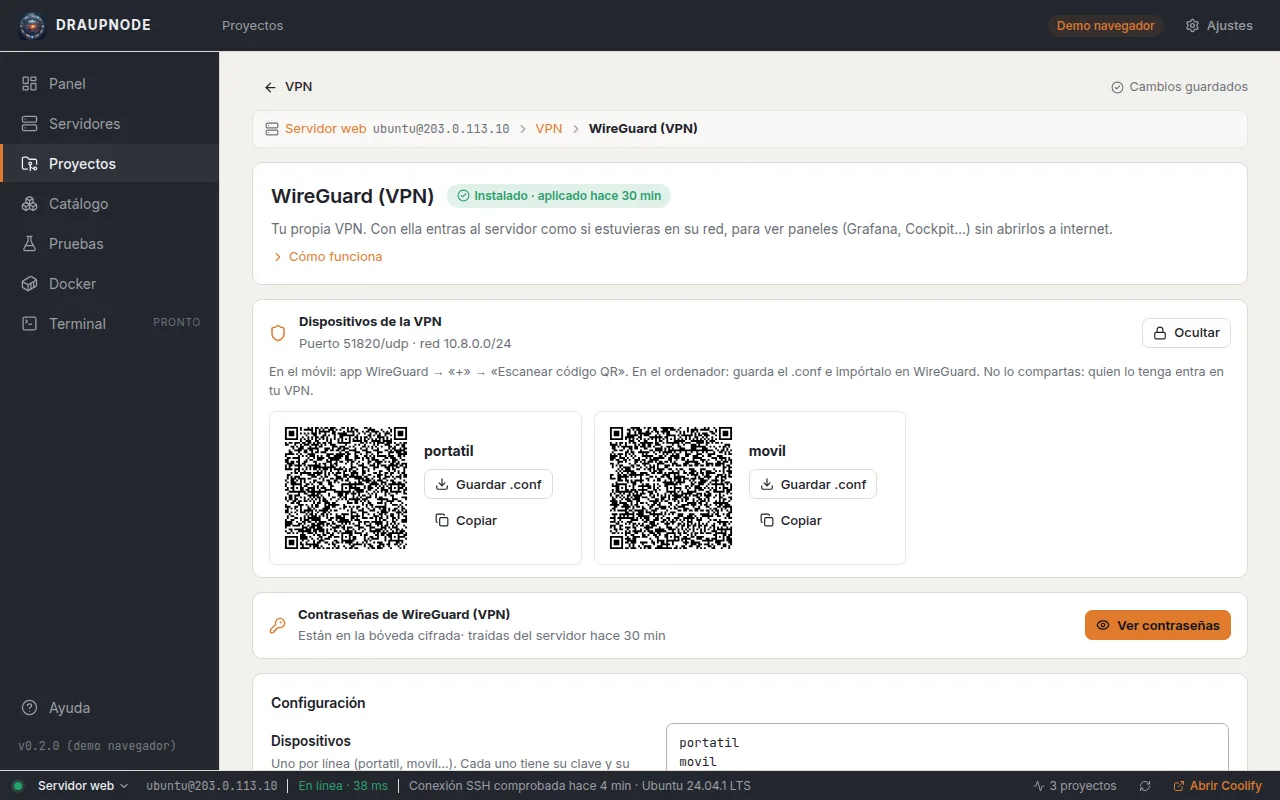
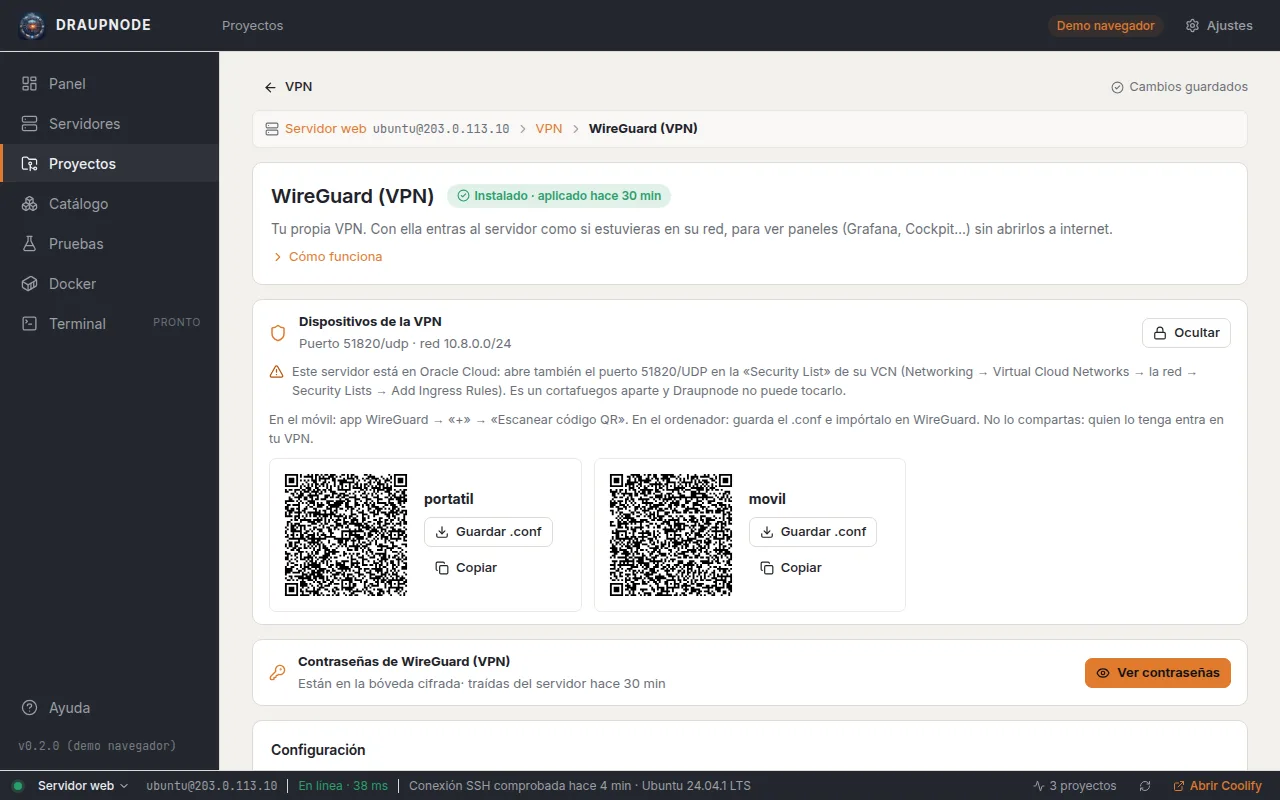
0.19.2: aviso de puertos a abrir en el cortafuegos del proveedor de nube

Changed region(s): [[0.2188, 0.4375, 0.9688, 0.9688], [0.5312, 0.75, 0.9688, 0.9688]]

diff --git a/frontend/src/components/WireguardPanel.svelte b/frontend/src/components/WireguardPanel.svelte
@@ -3,15 +3,17 @@
   // app del móvil) y para guardarla como .conf. Está en la bóveda: hay que
   // escribir su contraseña cada vez y se oculta sola.
   import { onDestroy } from 'svelte'
-  import { Shield, Download, Copy, Lock, QrCode } from '@lucide/svelte'
+  import { Shield, Download, Copy, Lock, QrCode, TriangleAlert } from '@lucide/svelte'
   import qrcode from 'qrcode-generator'
   import { api, errorText, type Project, type ProjectSecret } from '../lib/api'
-  import { ask, toast } from '../lib/state.svelte'
+  import { ask, toast, ui } from '../lib/state.svelte'
+  import { cloudHint } from '../lib/modules'
 
   let { project }: { project: Project } = $props()
   const HIDE_AFTER_MS = 3 * 60 * 1000
 
   const vals = $derived(project.installedValues?.wireguard ?? {})
+  const cloud = $derived(ui.servers.find((s) => s.id === project.serverId)?.lastCheck?.facts?.cloud)
   let list = $state<ProjectSecret[] | null>(null)
   let busy = $state(false)
   let timer: ReturnType<typeof setTimeout> | undefined
@@ -77,6 +79,7 @@
       <button class="btn sm" onclick={open} disabled={busy}><QrCode size={14} /> Ver configuraciones</button>
     {/if}
   </div>
+  <p class="hint"><TriangleAlert size={15} /> {cloudHint(cloud, `el puerto ${vals.wireguard_port ?? 51820}/UDP`)}</p>
   {#if list}
     <p class="muted small">En el móvil: app WireGuard → «+» → «Escanear código QR». En el ordenador: guarda el .conf e impórtalo en WireGuard. No lo compartas: quien lo tenga entra en tu VPN.</p>
     <div class="peers">
@@ -102,6 +105,8 @@
   .head > :global(svg) { color: var(--accent); flex: none; }
   .txt { display: flex; flex-direction: column; gap: 2px; font-size: 13px; flex: 1; min-width: 0; }
   .small { font-size: 12.5px; margin: 0; }
+  .hint { display: flex; gap: 8px; align-items: flex-start; margin: 0; font-size: 12.5px; color: var(--muted); }
+  .hint :global(svg) { color: var(--warning); flex: none; margin-top: 1px; }
   .peers { display: grid; grid-template-columns: repeat(auto-fill, minmax(260px, 1fr)); gap: 12px; }
   .peer { display: flex; gap: 12px; align-items: center; border: 1px solid var(--border-soft); border-radius: var(--radius-sm); padding: 10px; }
   /* El QR siempre negro sobre blanco (en tema oscuro también), para que lo lea la cámara. */

diff --git a/frontend/src/lib/modules.ts b/frontend/src/lib/modules.ts
@@ -64,3 +64,24 @@ export function sameValues(a: unknown, b: unknown): boolean {
         : v
   return JSON.stringify(norm(a)) === JSON.stringify(norm(b))
 }
+
+// Cortafuegos del proveedor de nube (fuera del servidor): dónde abrir los puertos.
+const CLOUDS: Record<string, [string, string]> = {
+  oracle: ['Oracle Cloud', 'la «Security List» de su VCN (Networking → Virtual Cloud Networks → la red → Security Lists → Add Ingress Rules)'],
+  aws: ['AWS', 'el «Security Group» de la instancia (EC2 → Security Groups → Inbound rules)'],
+  gcp: ['Google Cloud', 'las reglas de cortafuegos de su VPC (VPC network → Firewall)'],
+  azure: ['Azure', 'el «Network Security Group» de la máquina (Networking → Inbound port rules)'],
+  hetzner: ['Hetzner Cloud', 'su «Firewall» de Hetzner, si le has puesto uno'],
+  digitalocean: ['DigitalOcean', 'su «Cloud Firewall», si le has puesto uno'],
+  ovh: ['OVHcloud', 'su «Firewall Network», si lo tienes activado'],
+  scaleway: ['Scaleway', 'su «Security Group»'],
+  linode: ['Akamai/Linode', 'su «Cloud Firewall», si le has puesto uno'],
+  vultr: ['Vultr', 'su «Firewall Group», si le has puesto uno'],
+}
+
+/** Aviso para abrir puertos en el cortafuegos del proveedor de nube. */
+export function cloudHint(cloud: string | undefined, ports: string): string {
+  const c = cloud ? CLOUDS[cloud] : undefined
+  if (c) return `Este servidor está en ${c[0]}: abre también ${ports} en ${c[1]}. Es un cortafuegos aparte y Draupnode no puede tocarlo.`
+  return `Si este servidor está en la nube (Oracle, AWS, Google, Azure, Hetzner…), abre también ${ports} en el cortafuegos del proveedor: es aparte y Draupnode no puede tocarlo.`
+}

diff --git a/frontend/src/components/BackupTargetDialog.svelte b/frontend/src/components/BackupTargetDialog.svelte
@@ -6,6 +6,7 @@
   import { api, errorText, type BackupTargetResult, type Project } from '../lib/api'
   import { ui, toast, withVault, refreshProjects, startRun } from '../lib/state.svelte'
   import { withConnection } from '../lib/connect'
+  import { cloudHint } from '../lib/modules'
 
   let { project, onclose, onchanged }: { project: Project; onclose: () => void; onchanged: () => void } = $props()
 
@@ -131,6 +132,7 @@
             <small>Un puerto poco común para que no sea fácil de encontrar. Puedes poner el que quieras (1024-65535). Por él se conectará {source?.name ?? 'este servidor'}; se abre en el Cortafuegos del destino.</small>
           </label>
         {/if}
+        <p class="warn"><TriangleAlert size={16} /> {cloudHint(ui.servers.find((s) => s.id === serverId)?.lastCheck?.facts?.cloud, `el puerto ${target ? target.modules.find((m) => m.id === 'backup-target')?.values.backup_target_port : port}/TCP`)}</p>
         {#if local}<p class="warn"><TriangleAlert size={16} /> Ese servidor se conecta por 127.0.0.1: el servidor de origen no podrá llegar a él.</p>{/if}
         <div class="note">
           <strong>Qué se hará</strong>

diff --git a/app_cloud.go b/app_cloud.go
@@ -1,0 +1,69 @@
+package main
+
+import (
+	"sort"
+	"strconv"
+	"strings"
+
+	"draupnode/internal/bundle"
+)
+
+// Los proveedores de nube tienen un cortafuegos propio, fuera del servidor,
+// que Draupnode no puede tocar: hay que abrir allí los mismos puertos.
+
+// cloudFirewall: nombre del proveedor y dónde se abren los puertos.
+var cloudFirewall = map[string][2]string{
+	"oracle":       {"Oracle Cloud", "la «Security List» de su VCN (o su Network Security Group): Networking → Virtual Cloud Networks → la red → Security Lists → Add Ingress Rules"},
+	"aws":          {"AWS", "el «Security Group» de la instancia (EC2 → Security Groups → Inbound rules)"},
+	"gcp":          {"Google Cloud", "las reglas de cortafuegos de su VPC (VPC network → Firewall)"},
+	"azure":        {"Azure", "el «Network Security Group» de la máquina (Networking → Inbound port rules)"},
+	"hetzner":      {"Hetzner Cloud", "su «Firewall» de Hetzner, si le has puesto uno (Firewalls → Inbound)"},
+	"digitalocean": {"DigitalOcean", "su «Cloud Firewall», si le has puesto uno (Networking → Firewalls)"},
+	"ovh":          {"OVHcloud", "el «Firewall Network» o los grupos de seguridad, si los tienes activados"},
+	"scaleway":     {"Scaleway", "su «Security Group» (Instances → Security groups)"},
+	"linode":       {"Akamai/Linode", "su «Cloud Firewall», si le has puesto uno"},
+	"vultr":        {"Vultr", "su «Firewall Group», si le has puesto uno"},
+}
+
+// CloudName devuelve el nombre legible del proveedor ("" si no se conoce).
+func CloudName(id string) string { return cloudFirewall[id][0] }
+
+// cloudPortWarning: aviso con los puertos que los módulos necesitan abiertos
+// también en el cortafuegos del proveedor. "" si no es una nube conocida o
+// no hace falta ninguno (el 22 ya viene abierto).
+func cloudPortWarning(sel []bundle.Selection, cloud string) string {
+	cf, ok := cloudFirewall[cloud]
+	if !ok {
+		return ""
+	}
+	set := map[string]bool{}
+	for _, s := range sel {
+		for _, p := range ModulePorts(s.Module, s.Values) {
+			if p != "22" {
+				set[p+"/tcp"] = true
+			}
+		}
+		for _, name := range s.Module.UDPPortsFrom {
+			if n := toInt(s.Values[name]); n > 0 {
+				set[strconv.Itoa(n)+"/udp"] = true
+			}
+		}
+		if s.Module.ID == "firewall" {
+			for _, p := range toStrings(s.Values["firewall_tcp_ports"]) {
+				if p != "22" {
+					set[p+"/tcp"] = true
+				}
+			}
+		}
+	}
+	if len(set) == 0 {
+		return ""
+	}
+	ports := make([]string, 0, len(set))
+	for p := range set {
+		ports = append(ports, p)
+	}
+	sort.Slice(ports, func(i, j int) bool { return atoi(strings.Split(ports[i], "/")[0]) < atoi(strings.Split(ports[j], "/")[0]) })
+	return "El servidor está en " + cf[0] + ", que tiene su propio cortafuegos fuera del servidor: si no lo has hecho ya, abre también " +
+		strings.Join(ports, ", ") + " en " + cf[1] + ". Draupnode no puede hacerlo por ti."
+}

diff --git a/internal/modules/modules.go b/internal/modules/modules.go
@@ -84,6 +84,10 @@ type Module struct {
 	// FirewallPortsFrom: variables del módulo (tipo int) cuyo valor es un
 	// puerto que también hay que abrir (p. ej. el puerto de SSH elegido).
 	FirewallPortsFrom []string `yaml:"firewall_ports_from" json:"firewallPortsFrom,omitempty"`
+	// UDPPortsFrom: variables (int) con puertos UDP que abre el propio módulo
+	// (el Cortafuegos solo maneja TCP). Sirven para avisar del cortafuegos del
+	// proveedor de nube.
+	UDPPortsFrom []string `yaml:"udp_ports_from" json:"udpPortsFrom,omitempty"`
 	// Conflicts: módulos que no pueden ir en el mismo proyecto (en los dos sentidos).
 	Conflicts []string `yaml:"conflicts" json:"conflicts,omitempty"`
 	// After: si estos módulos están en el proyecto, este va detrás (sin obligar a marcarlos).
@@ -200,6 +204,11 @@ func (m *Module) validate() error {
 	for _, name := range m.FirewallPortsFrom {
 		if v := vars[name]; v == nil || v.Type != TypeInt {
 			return fmt.Errorf("firewall_ports_from: %q no es una variable numérica del módulo", name)
+		}
+	}
+	for _, name := range m.UDPPortsFrom {
+		if v := vars[name]; v == nil || v.Type != TypeInt {
+			return fmt.Errorf("udp_ports_from: %q no es una variable numérica del módulo", name)
 		}
 	}
 	for _, c := range m.Checks {

diff --git a/internal/sshx/probe.go b/internal/sshx/probe.go
@@ -24,6 +24,15 @@ echo "disk_free_kb=$(df -Pk / 2>/dev/null | awk 'NR==2 {print $4}')"
 echo "disk_total_kb=$(df -Pk / 2>/dev/null | awk 'NR==2 {print $2}')"
 echo "uptime=$(uptime -p 2>/dev/null)"
 if [ "$(id -u)" = 0 ]; then echo "sudo=root"; elif sudo -n true 2>/dev/null; then echo "sudo=yes"; else echo "sudo=no"; fi
+# Proveedor de nube (los datos DMI se leen sin ser root).
+v="$(cat /sys/class/dmi/id/sys_vendor /sys/class/dmi/id/product_name /sys/class/dmi/id/chassis_asset_tag /sys/class/dmi/id/bios_vendor 2>/dev/null | tr '\n' ' ')"
+case "$v" in
+  *OracleCloud*) c=oracle ;; *Amazon*|*amazon*) c=aws ;; *Google*) c=gcp ;;
+  *Microsoft*) c=azure ;; *Hetzner*) c=hetzner ;; *DigitalOcean*) c=digitalocean ;;
+  *OVH*) c=ovh ;; *Scaleway*) c=scaleway ;; *Linode*|*Akamai*) c=linode ;; *Vultr*) c=vultr ;;
+  *) c= ;;
+esac
+echo "cloud=$c"
 for b in python3 docker git curl ansible; do
   if command -v "$b" >/dev/null 2>&1; then echo "has_$b=yes"; else echo "has_$b=no"; fi
 done

diff --git a/app_cloud_test.go b/app_cloud_test.go
@@ -1,0 +1,25 @@
+package main
+
+import (
+	"strings"
+	"testing"
+
+	"draupnode/internal/bundle"
+)
+
+func TestAvisoNube(t *testing.T) {
+	a := newTestApp(t, nil)
+	wg, _ := a.cat().Get("wireguard")
+	fw, _ := a.cat().Get("firewall")
+	sel := []bundle.Selection{
+		{Module: fw, Values: map[string]any{"firewall_tcp_ports": []string{"22", "443", "80"}}},
+		{Module: wg, Values: map[string]any{"wireguard_port": 51820}},
+	}
+	w := cloudPortWarning(sel, "oracle")
+	if !strings.Contains(w, "Oracle Cloud") || !strings.Contains(w, "80/tcp, 443/tcp, 51820/udp") || strings.Contains(w, "22/") {
+		t.Fatal(w)
+	}
+	if cloudPortWarning(sel, "") != "" || cloudPortWarning(sel[:0], "aws") != "" {
+		t.Fatal("sin nube o sin puertos no debe avisar")
+	}
+}

diff --git a/app_projects.go b/app_projects.go
@@ -173,6 +173,9 @@ func (a *App) resolveProject(p store.Project) (ProjectCheck, []bundle.Selection)
 	}
 	if srvErr == nil && srv.LastCheck != nil && srv.LastCheck.OK {
 		res.Warnings = append(res.Warnings, requirementWarnings(sel, srv.LastCheck.Facts)...)
+		if w := cloudPortWarning(sel, srv.LastCheck.Facts["cloud"]); w != "" {
+			res.Warnings = append(res.Warnings, w)
+		}
 	}
 	if res.Warnings == nil {
 		res.Warnings = []string{} // la interfaz espera una lista, nunca null

diff --git a/app.go b/app.go
@@ -21,7 +21,7 @@ import (
 )
 
 // Version de la aplicación.
-const Version = "0.19.1"
+const Version = "0.19.2"
 
 // Prefijos que la interfaz reconoce en los errores para abrir el diálogo
 // de la bóveda (crear o desbloquear) y reintentar.

diff --git a/docs/HISTORIAL.md b/docs/HISTORIAL.md
@@ -326,3 +326,10 @@ Dos módulos que hacen lo mismo, para elegir (categoría 3 · Plataformas). No p
 
 - Petición del usuario: dar la opción de aplicar los dos proyectos a la vez. Al terminar «Preparar», la ventana ofrece «Lo haré yo» (va al proyecto destino) o **«Aplicar los dos ahora»**: aplica el destino, después el origen y, si la rotación está activada, otra vez el destino (para darle la contraseña de las copias que acaba de traer el origen). Enseña cada paso con lo que está haciendo; si uno falla, se para y ofrece ir al proyecto. Pide lo que haga falta de cada servidor (frase de la clave, huella…) como al aplicar a mano.
 - Probado en la demo (los tres pasos y el aviso final, sin errores de JavaScript); captura nueva en la ayuda.
+
+## 2026-11-21 · 0.19.2 · Aviso del cortafuegos del proveedor de nube
+
+- Petición del usuario: lo que no puede hacer Draupnode (abrir puertos en el cortafuegos de la nube), que lo avise para que lo haga el usuario.
+- Al probar la conexión se detecta el proveedor por los datos DMI (`cloud=` en los datos del servidor: Oracle, AWS, Google, Azure, Hetzner, DigitalOcean, OVH, Scaleway, Linode, Vultr).
+- Al revisar o aplicar un proyecto en una nube conocida, un aviso dice qué puertos abrir allí (los TCP del Cortafuegos y de los módulos, sin el 22, y los UDP de los módulos con `udp_ports_from` nuevo en module.yaml, como WireGuard) y **dónde** se hace en ese proveedor (p. ej. Oracle: Security List de la VCN, con la ruta de menús).
+- La página de WireGuard y la ventana del Destino de copias lo dicen siempre (con el proveedor si se conoce); también las notas al aplicar de los dos módulos.

diff --git a/docs/PLAN.md b/docs/PLAN.md
@@ -68,7 +68,7 @@
 - Aviso / descarga automática de copias al abrir la app (idea aprobada, sin hacer).
 - Probar en un servidor con dominio real: certificados de Let's Encrypt con Caddy y con nginx/certbot.
 - ~~Destino de copias: rotación~~ hecho en la 0.19.0 (la hace el propio destino, con la contraseña que le da Draupnode).
-- WireGuard: el puerto UDP lo abre el propio módulo; el Cortafuegos solo sabe TCP. En Oracle Cloud hay que abrir también el UDP en la Security List.
+- ~~Avisar del cortafuegos del proveedor de nube~~ hecho en la 0.19.2.
 - Alertas: el servidor no puede avisar de que él mismo se ha caído (se cubre con «Vigilar otros servidores» desde otro servidor o con el aviso diario).
 - Módulo genérico «App con Docker Compose» (desplegar lo que genera la pantalla Docker o apps de la lista de abajo).
 
